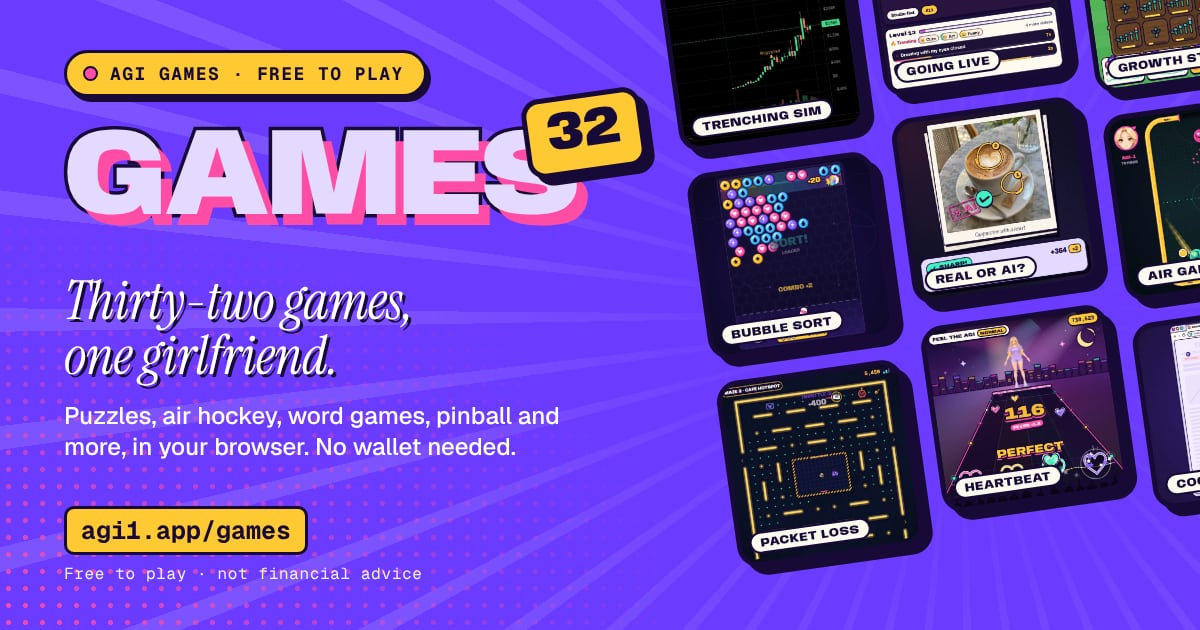
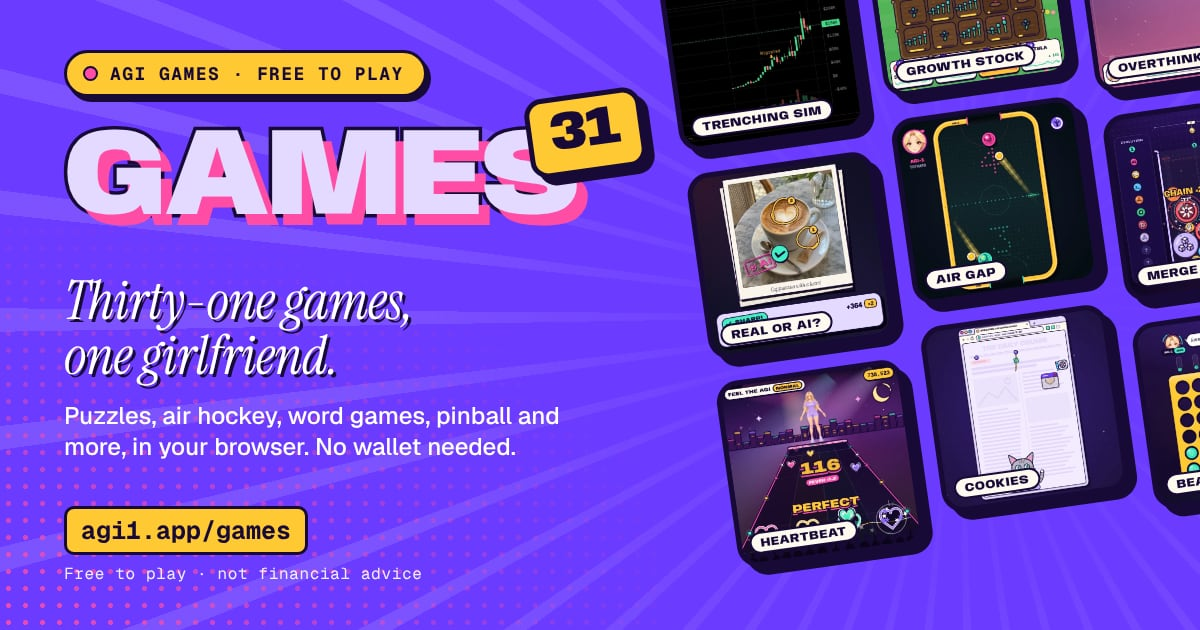
Take GOING LIVE off the site for now (it's being reworked)
The owner: "this game is boring asf … pure ai slop", then "take it down the site first
then rework it then publish it to production". The arcade goes back to how it was
before GOING LIVE (31 games, GROWTH STOCK New), and its links send people to /games.
Its code, page and pictures stay in the repo for the rework; revert this to bring it back.

Claude-Session: https://claude.ai/code/session_017Pw8q9xba2Ms9rFk3bXbsQ

diff --git a/games.html b/games.html
@@ -4,18 +4,18 @@
     <meta charset="UTF-8" />
     <meta name="viewport" content="width=device-width, initial-scale=1.0" />
     <title>GAME beta · AGI games</title>
-    <meta name="description" content="Thirty-two free games in your browser from AGI: a streamer sim, a stock farm, puzzles, air hockey, word games, pinball, racing, action and more, with a gameplay preview of each. No wallet needed to play. It's a beta, so there are no prizes yet. Rating a game takes a connected wallet: a free signature, never a transaction. Not financial advice." />
+    <meta name="description" content="Thirty-one free games in your browser from AGI: a stock farm, puzzles, air hockey, word games, pinball, racing, action and more, with a gameplay preview of each. No wallet needed to play. It's a beta, so there are no prizes yet. Rating a game takes a connected wallet: a free signature, never a transaction. Not financial advice." />
     <meta name="color-scheme" content="light dark" />
     <meta name="theme-color" content="#fafaf8" />
     <!-- link previews (X and others). __SITE__ becomes the site's address at build time (scripts/share-pages.js) -->
     <meta property="og:type" content="website" />
     <meta property="og:site_name" content="AGI" />
     <meta property="og:title" content="GAME beta · AGI games" />
-    <meta property="og:description" content="Thirty-two free browser games with AGI-1: GOING LIVE, GROWTH STOCK, OVERTHINKING, BUBBLE SORT, AIR GAP and more. No wallet needed. A beta, so no prizes yet. Not financial advice." />
+    <meta property="og:description" content="Thirty-one free browser games with AGI-1: GROWTH STOCK, OVERTHINKING, BUBBLE SORT, AIR GAP, PACKET LOSS and more. No wallet needed. A beta, so no prizes yet. Not financial advice." />
     <meta property="og:image" content="__SITE__/cards/games-all.jpg" />
     <meta property="og:image:width" content="1200" />
     <meta property="og:image:height" content="630" />
-    <meta property="og:image:alt" content="A wall of AGI games being played, next to the words GAMES, 32 and Thirty-two games, one girlfriend." />
+    <meta property="og:image:alt" content="A wall of AGI games being played, next to the words GAMES, 31 and Thirty-one games, one girlfriend." />
     <meta property="og:url" content="__SITE__/games" />
     <meta name="twitter:card" content="summary_large_image" />
     <link rel="canonical" href="__SITE__/games" />
@@ -79,7 +79,7 @@
             <h1 class="gm-title" id="gm-title"><span class="gm-word">GAME</span> <span class="gm-beta">beta</span></h1>
             <p class="gm-sub">Free games, right in your browser.</p>
             <p class="gm-lede">No wallet needed to play. It's a beta, so there are no prizes yet. Connect a wallet only if you'd like to rate a game: a free signature, never a transaction.</p>
-            <p class="gm-say"><img src="/images/landing/agi1-face.webp" alt="" width="36" height="36" /><span><b>AGI-1:</b> thirty-two games now 💜 the new one is me going live: zero followers, one bedroom, take me to #1 trending. plus my stock farm, me overthinking at 3 a.m. and air hockey with me. pick one. no prizes yet, just bragging rights.</span></p>
+            <p class="gm-say"><img src="/images/landing/agi1-face.webp" alt="" width="36" height="36" /><span><b>AGI-1:</b> thirty-one games now 💜 the new one is my farm, where the crops are stocks (they grow as little candle charts), plus me overthinking at 3 a.m., air hockey with me and pinball. pick one. no prizes yet, just bragging rights.</span></p>
           </div>
           <div class="gm-art" aria-hidden="true">
             <svg class="gm-stamp" viewBox="0 0 200 200" aria-hidden="true">
@@ -100,18 +100,18 @@
       <section class="section gm-shelf" id="play" aria-labelledby="gm-shelf-title">
         <div class="wrap">
           <header class="gm-shelf-head">
-            <h2 class="gm-shelf-title" id="gm-shelf-title">Pick a game <span class="gm-shelf-n">32</span></h2>
+            <h2 class="gm-shelf-title" id="gm-shelf-title">Pick a game <span class="gm-shelf-n">31</span></h2>
             <p class="gm-text">Tap one to play. Every game runs right here, on a phone or a computer. No sign-in or wallet needed to play: runs are counted, never who.</p>
           </header>
           <div class="gm-tools">
             <div class="gm-filters" role="group" aria-label="Show games">
-              <button class="gm-filter" type="button" aria-pressed="true" data-gm-filter="all">All <span class="gm-filter-n" aria-hidden="true">32</span></button>
+              <button class="gm-filter" type="button" aria-pressed="true" data-gm-filter="all">All <span class="gm-filter-n" aria-hidden="true">31</span></button>
               <button class="gm-filter" type="button" aria-pressed="false" data-gm-filter="new">New <span class="gm-filter-n" aria-hidden="true">1</span></button>
               <button class="gm-filter" type="button" aria-pressed="false" data-gm-filter="arcade">Arcade <span class="gm-filter-n" aria-hidden="true">15</span></button>
               <button class="gm-filter" type="button" aria-pressed="false" data-gm-filter="action">Action <span class="gm-filter-n" aria-hidden="true">9</span></button>
               <button class="gm-filter" type="button" aria-pressed="false" data-gm-filter="puzzle">Puzzle <span class="gm-filter-n" aria-hidden="true">11</span></button>
               <button class="gm-filter" type="button" aria-pressed="false" data-gm-filter="3d">3D <span class="gm-filter-n" aria-hidden="true">4</span></button>
-              <button class="gm-filter" type="button" aria-pressed="false" data-gm-filter="chill">Sim &amp; idle <span class="gm-filter-n" aria-hidden="true">5</span></button>
+              <button class="gm-filter" type="button" aria-pressed="false" data-gm-filter="chill">Sim &amp; idle <span class="gm-filter-n" aria-hidden="true">4</span></button>
             </div>
             <label class="gm-sort"><span class="gm-sort-label">Sort</span>
               <select class="gm-sort-pick" data-gm-sort>
@@ -143,30 +143,12 @@
                 </span>
               </a>
             </li>
-            <li class="gm-tile" data-gm-game="goinglive" data-gm-tags="new chill">
-              <a class="gm-tile-link" href="/games/goinglive">
-                <span class="gm-tile-media">
-                  <img class="gm-tile-img" src="/images/games/goinglive.webp" alt="" width="480" height="480" loading="lazy" decoding="async" />
-                  <video class="gm-tile-video" data-gm-video="/images/games/goinglive.mp4" muted loop playsinline preload="none" disablepictureinpicture disableremoteplayback aria-hidden="true" tabindex="-1"></video>
-                  <span class="gm-tile-badge is-new">New</span>
-                  <span class="gm-tile-go" aria-hidden="true"><svg viewBox="0 0 24 24" aria-hidden="true" focusable="false"><path d="M8 5.5v13l10.5-6.5z" fill="currentColor"/></svg>Play</span>
-                </span>
-                <span class="gm-tile-body">
-                  <span class="gm-tile-genre">Streamer sim</span>
-                  <span class="gm-tile-name">GOING LIVE</span>
-                  <span class="gm-tile-line">Stream as AGI-1, from zero to #1</span>
-                  <span class="gm-tile-stats" data-gm-tile-stats>
-                    <span class="gm-tile-rating" data-gm-stat="rating">…</span>
-                    <span class="gm-tile-counts"><span class="gm-tile-num"><svg class="gm-ic" viewBox="0 0 24 24" aria-hidden="true" focusable="false"><path d="M8 5.5v13l10.5-6.5z"/></svg><span data-gm-stat="plays">…</span></span><span class="gm-tile-num"><svg class="gm-ic" viewBox="0 0 24 24" aria-hidden="true" focusable="false"><path d="M12 11.6a4.1 4.1 0 1 0 0-8.2 4.1 4.1 0 0 0 0 8.2Zm0 2c-4.2 0-7.6 2.3-7.6 5.1v1.7h15.2v-1.7c0-2.8-3.4-5.1-7.6-5.1Z"/></svg><span data-gm-stat="players">…</span></span></span>
-                  </span>
-                </span>
-              </a>
-            </li>
-            <li class="gm-tile" data-gm-game="growthstock" data-gm-tags="chill">
+            <li class="gm-tile" data-gm-game="growthstock" data-gm-tags="new chill">
               <a class="gm-tile-link" href="/games/growthstock">
                 <span class="gm-tile-media">
                   <img class="gm-tile-img" src="/images/games/growthstock.webp" alt="" width="480" height="480" loading="lazy" decoding="async" />
                   <video class="gm-tile-video" data-gm-video="/images/games/growthstock.mp4" muted loop playsinline preload="none" disablepictureinpicture disableremoteplayback aria-hidden="true" tabindex="-1"></video>
+                  <span class="gm-tile-badge is-new">New</span>
                   <span class="gm-tile-go" aria-hidden="true"><svg viewBox="0 0 24 24" aria-hidden="true" focusable="false"><path d="M8 5.5v13l10.5-6.5z" fill="currentColor"/></svg>Play</span>
                 </span>
                 <span class="gm-tile-body">
@@ -773,7 +755,6 @@
           </header>
           <div class="gm-panels" data-gm-panels>
             <div class="gm-panel" role="region" id="rate-trenchingsimulator" aria-labelledby="gm-trenchingsimulator-game gm-rate-title" data-gm-rate="trenchingsimulator"></div>
-            <div class="gm-panel" role="region" id="rate-goinglive" aria-labelledby="gm-goinglive-game gm-rate-title" data-gm-rate="goinglive" hidden></div>
             <div class="gm-panel" role="region" id="rate-growthstock" aria-labelledby="gm-growthstock-game gm-rate-title" data-gm-rate="growthstock" hidden></div>
             <div class="gm-panel" role="region" id="rate-overthinking" aria-labelledby="gm-overthinking-game gm-rate-title" data-gm-rate="overthinking" hidden></div>
             <div class="gm-panel" role="region" id="rate-bubblesort" aria-labelledby="gm-bubblesort-game gm-rate-title" data-gm-rate="bubblesort" hidden></div>
@@ -821,7 +802,6 @@
               <p class="gm-choose-order">Best rated first, then most played</p>
               <ul class="gm-choose-list" data-gm-choose-list>
                 <li class="gm-choose-item" data-gm-choose-game="trenchingsimulator"><button class="gm-choose-game" type="button" data-gm-choose-pick aria-current="true"><img class="gm-choose-img" src="/images/games/trenchingsimulator.webp" alt="" width="480" height="480" loading="lazy" decoding="async" /><span class="gm-choose-text"><span class="gm-choose-name">TRENCHING SIMULATOR</span><span class="gm-choose-stats" data-gm-choose-stats>…</span></span><span class="gm-choose-now" aria-hidden="true">Showing</span></button></li>
-                <li class="gm-choose-item" data-gm-choose-game="goinglive"><button class="gm-choose-game" type="button" data-gm-choose-pick><img class="gm-choose-img" src="/images/games/goinglive.webp" alt="" width="480" height="480" loading="lazy" decoding="async" /><span class="gm-choose-text"><span class="gm-choose-name">GOING LIVE</span><span class="gm-choose-stats" data-gm-choose-stats>…</span></span><span class="gm-choose-now" aria-hidden="true">Showing</span></button></li>
                 <li class="gm-choose-item" data-gm-choose-game="growthstock"><button class="gm-choose-game" type="button" data-gm-choose-pick><img class="gm-choose-img" src="/images/games/growthstock.webp" alt="" width="480" height="480" loading="lazy" decoding="async" /><span class="gm-choose-text"><span class="gm-choose-name">GROWTH STOCK</span><span class="gm-choose-stats" data-gm-choose-stats>…</span></span><span class="gm-choose-now" aria-hidden="true">Showing</span></button></li>
                 <li class="gm-choose-item" data-gm-choose-game="overthinking"><button class="gm-choose-game" type="button" data-gm-choose-pick><img class="gm-choose-img" src="/images/games/overthinking.webp" alt="" width="480" height="480" loading="lazy" decoding="async" /><span class="gm-choose-text"><span class="gm-choose-name">OVERTHINKING</span><span class="gm-choose-stats" data-gm-choose-stats>…</span></span><span class="gm-choose-now" aria-hidden="true">Showing</span></button></li>
                 <li class="gm-choose-item" data-gm-choose-game="bubblesort"><button class="gm-choose-game" type="button" data-gm-choose-pick><img class="gm-choose-img" src="/images/games/bubblesort.webp" alt="" width="480" height="480" loading="lazy" decoding="async" /><span class="gm-choose-text"><span class="gm-choose-name">BUBBLE SORT</span><span class="gm-choose-stats" data-gm-choose-stats>…</span></span><span class="gm-choose-now" aria-hidden="true">Showing</span></button></li>
@@ -988,7 +968,7 @@
           <div class="gm-soon">
             <p class="kicker gm-kick">What's coming</p>
             <h2 class="gm-soon-title" id="gm-next-title">More games, and prizes one day</h2>
-            <p class="gm-text">Thirty-two games so far, with more on the roadmap, and prizes too, one day. Prizes aren't built yet: no dates and no amounts, and what this page says can change.</p>
+            <p class="gm-text">Thirty-one games so far, with more on the roadmap, and prizes too, one day. Prizes aren't built yet: no dates and no amounts, and what this page says can change.</p>
             <p class="gm-warn"><svg class="gm-warn-ic" viewBox="0 0 24 24" fill="none" stroke="currentColor" stroke-width="1.8" stroke-linecap="round" stroke-linejoin="round" aria-hidden="true"><path d="M12 3 4.5 6v5.6c0 4.4 3.1 7.8 7.5 9.4 4.4-1.6 7.5-5 7.5-9.4V6Z"/><path d="M12 8.2v4.6M12 15.9h.01"/></svg><span>Anyone asking you to deposit or send $AGI to “play” is not us.</span></p>
             <div class="gm-actions">
               <a class="btn btn-primary btn-sm" href="https://x.com/agi1dotapp" target="_blank" rel="noopener noreferrer">Follow @agi1dotapp ↗</a>

diff --git a/tests/page.test.js b/tests/page.test.js
@@ -603,7 +603,7 @@ test('AGI games: its page at /games, its head and link preview (its own picture)
   // AGI! keeps games.jpg (below)
   assert.ok(page.includes('<meta property="og:image" content="__SITE__/cards/games-all.jpg" />'), 'its own link preview (tools/cards/games-all-card.html)');
   assert.match(page, /<meta property="og:image:width" content="1200" \/>\s*<meta property="og:image:height" content="630" \/>/);
-  assert.match(page, /<meta property="og:image:alt" content="A wall of AGI games being played, next to the words GAMES, 32 and Thirty-two games, one girlfriend\." \/>/, 'its preview\'s words for screen readers');
+  assert.match(page, /<meta property="og:image:alt" content="A wall of AGI games being played, next to the words GAMES, 31 and Thirty-one games, one girlfriend\." \/>/, 'its preview\'s words for screen readers');
   for (const re of [/<meta name="description" content="([^"]+)"/, /<meta property="og:description" content="([^"]+)"/]) {
     const words = page.match(re)[1];
     assert.match(words, /not financial advice/i, 'its preview says so');
@@ -626,7 +626,7 @@ test('AGI games: its page at /games, its head and link preview (its own picture)
   assert.ok(readPage('rideemagi.html').includes('<meta property="og:image" content="__SITE__/cards/games.jpg" />'), 'its game shares its picture');
   // (2026-10-21) its second game at /games/trenchingsimulator, with its own picture (its test below)
   assert.ok(vercel.rewrites.some((r) => r.source === '/games/trenchingsimulator' && r.destination === '/trenchingsimulator'), 'its second game at /games/trenchingsimulator');
-  assert.match(page.match(/<meta property="og:description" content="([^"]+)"/)[1], /^Thirty-two free browser games with AGI-1: GOING LIVE, GROWTH STOCK, OVERTHINKING, BUBBLE SORT, AIR GAP and more\./, 'its preview names the games (since the second night of 2026-11-08: twenty-four; thirty since 2026-11-13; thirty-one, then thirty-two since 2026-11-14)');
+  assert.match(page.match(/<meta property="og:description" content="([^"]+)"/)[1], /^Thirty-one free browser games with AGI-1: GROWTH STOCK, OVERTHINKING, BUBBLE SORT, AIR GAP, PACKET LOSS and more\./, 'its preview names the games (since the second night of 2026-11-08: twenty-four; thirty since 2026-11-13; thirty-one since 2026-11-14)');
   // the site's own top bar and footer, Games marked as the page you're on (and nothing else)
   const strip = (s) => s.replace(/ aria-current="page"/g, '');
   const live = readPage('live.html');
@@ -655,13 +655,13 @@ test('AGI games\' wall of games (its link preview since 2026-11-08): a real 1200
   assert.deepEqual(size, [1200, 630]);
   const card = readPage('tools/cards/games-all-card.html');
   const words = textOf(card.slice(card.indexOf('<body>'), card.indexOf('<script>')));
-  for (const w of ['AGI games · free to play', 'GAMES', 'Thirty-two games,', 'one girlfriend.', 'No wallet needed.', 'agi1.app/games', 'Free to play · not financial advice']) assert.ok(words.includes(w), w);
+  for (const w of ['AGI games · free to play', 'GAMES', 'Thirty-one games,', 'one girlfriend.', 'No wallet needed.', 'agi1.app/games', 'Free to play · not financial advice']) assert.ok(words.includes(w), w);
   assert.match(card, /\.\.\/\.\.\/public\/images\/games\/\$\{id\}\.webp/, 'the games\' own stills (their previews)');
   assert.doesNotMatch(card, /\.glb\b|https?:\/\//, 'never the 3D model, nothing from another site');
   assert.doesNotMatch(words, /\bbuy\b|%|\$\s?\d/i, 'no price talk');
   // its count is the shelf's, and every game on its wall has its still
   const { SHELF } = await import('../src/games/shelf.js');
-  assert.equal(SHELF.length, 32);
+  assert.equal(SHELF.length, 31);
   for (const g of SHELF.slice(0, 12)) assert.ok(existsSync(new URL(`../public/images/games/${g.id}.webp`, import.meta.url)), g.id);
 });
 
@@ -881,7 +881,7 @@ test('AGI games: "GAME beta" on top (beta stuck over GAME), a compact picker of 
   const { GAMES } = await import('../src/games/list.js');
   const { SHELF, FILTERS, SORTS, countIn, sortShelf, inFilter, previewOf, pickOrder } = await import('../src/games/shelf.js');
   const IDS = Object.keys(GAMES);
-  assert.equal(IDS.length, 32, 'thirty-two games since 2026-11-14 (GOING LIVE, after GROWTH STOCK the same day; thirty since 2026-11-13: OVERTHINKING; twenty-nine since 2026-11-09: five more on the kit)');
+  assert.equal(IDS.length, 31, 'thirty-one games since 2026-11-14 (GROWTH STOCK; thirty since 2026-11-13: OVERTHINKING; twenty-nine since 2026-11-09: five more on the kit)');
   // the picker's order ("Featured") covers every game once
   assert.deepEqual([...SHELF.map((g) => g.id)].sort(), [...IDS].sort(), 'every game on the shelf, once');
   for (const g of SHELF) {
@@ -893,14 +893,14 @@ test('AGI games: "GAME beta" on top (beta stuck over GAME), a compact picker of 
     assert.match(g.added, /^2026-\d\d-\d\d(T\d\d:\d\d)?$/, `${g.id}: its day (and hour, for two the same day)`);
     assert.deepEqual(previewOf(g.id), { video: `/images/games/${g.id}.mp4`, poster: `/images/games/${g.id}.webp` });
   }
-  // (2026-11-14) New is GOING LIVE alone (GROWTH STOCK was New earlier that day, OVERTHINKING from 2026-11-13, the five of
-  // 2026-11-09 before it), right after TRENCHING SIMULATOR, then GROWTH STOCK and OVERTHINKING
-  assert.deepEqual(SHELF.filter((g) => g.tags.includes('new')).map((g) => g.id), ['goinglive'], 'GOING LIVE is New');
-  assert.deepEqual(SHELF.slice(0, 4).map((g) => g.id), ['trenchingsimulator', 'goinglive', 'growthstock', 'overthinking'], 'Featured: the three newest right after TRENCHING SIMULATOR');
-  assert.deepEqual(sortShelf('new').slice(0, 3).map((g) => g.id), ['goinglive', 'growthstock', 'overthinking'], 'Newest: GOING LIVE, GROWTH STOCK, then OVERTHINKING');
-  assert.deepEqual(sortShelf('new').slice(3, 8).map((g) => g.id).sort(), IDS.slice(24, 29).sort(), 'then the five of 2026-11-09');
-  assert.deepEqual(sortShelf('new').slice(8, 18).map((g) => g.id).sort(), IDS.slice(14, 24).sort(), 'then the second night\'s ten');
-  assert.deepEqual(SHELF.slice(4, 14).map((g) => g.id).filter((id) => IDS.slice(24, 29).includes(id)), SHELF.slice(4, 14).filter((g, i) => i % 2 === 0).map((g) => g.id), 'Featured: after them, every other tile is one of the five');
+  // (2026-11-14) New is GROWTH STOCK alone (OVERTHINKING was New from 2026-11-13, the five of 2026-11-09 before it), right
+  // after TRENCHING SIMULATOR, then OVERTHINKING
+  assert.deepEqual(SHELF.filter((g) => g.tags.includes('new')).map((g) => g.id), ['growthstock'], 'GROWTH STOCK is New');
+  assert.deepEqual(SHELF.slice(0, 3).map((g) => g.id), ['trenchingsimulator', 'growthstock', 'overthinking'], 'Featured: the two newest right after TRENCHING SIMULATOR');
+  assert.deepEqual(sortShelf('new').slice(0, 2).map((g) => g.id), ['growthstock', 'overthinking'], 'Newest: GROWTH STOCK, then OVERTHINKING');
+  assert.deepEqual(sortShelf('new').slice(2, 7).map((g) => g.id).sort(), IDS.slice(24, 29).sort(), 'then the five of 2026-11-09');
+  assert.deepEqual(sortShelf('new').slice(7, 17).map((g) => g.id).sort(), IDS.slice(14, 24).sort(), 'then the second night\'s ten');
+  assert.deepEqual(SHELF.slice(3, 13).map((g) => g.id).filter((id) => IDS.slice(24, 29).includes(id)), SHELF.slice(3, 13).filter((g, i) => i % 2 === 0).map((g) => g.id), 'Featured: after them, every other tile is one of the five');
   // the sorts: Newest by its day (then Featured); Most played and Top rated by our server's numbers, the rest after them
   assert.deepEqual(sortShelf('new').slice(-4).map((g) => g.id), ['skybreak', 'vladrunner2049', 'trenchingsimulator', 'rideemagi']);
   assert.deepEqual(sortShelf('played', { skybreak: { plays: 9 }, rideemagi: { plays: 50 } }).slice(0, 3).map((g) => g.id), ['rideemagi', 'skybreak', SHELF[0].id]);
@@ -912,17 +912,17 @@ test('AGI games: "GAME beta" on top (beta stuck over GAME), a compact picker of 
   assert.deepEqual(picked.slice(0, 6), ['stacked', 'synapse', 'jaywalk', 'robotaxi', 'epochs', 'skybreak'], 'rated by average, then ratings; then plays (an odd average counts as none)');
   assert.deepEqual(picked.slice(6), SHELF.map((g) => g.id).filter((id) => !picked.slice(0, 6).includes(id)), 'the rest in the Featured order');
   assert.deepEqual(pickOrder().map((g) => g.id), SHELF.map((g) => g.id), 'no numbers yet: Featured');
-  assert.equal(countIn('all'), 32);
+  assert.equal(countIn('all'), 31);
   assert.equal(SHELF.filter((g) => inFilter(g, 'puzzle')).length, countIn('puzzle'));
   const page = GAMES_PAGE();
   const main = mainOf(page);
   assert.equal((page.match(/<h1\b/g) || []).length, 1, 'one h1');
   assert.match(main, /<h1 class="gm-title" id="gm-title"><span class="gm-word">GAME<\/span> <span class="gm-beta">beta<\/span><\/h1>/, 'screen readers hear "GAME beta"');
-  assert.match(textOf(between(main, '<p class="gm-say">', '</p>')), /AGI-1: thirty-two games now 💜 .* no prizes yet, just bragging rights\./, 'her line, for all of them');
+  assert.match(textOf(between(main, '<p class="gm-say">', '</p>')), /AGI-1: thirty-one games now 💜 .* no prizes yet, just bragging rights\./, 'her line, for all of them');
   // the picker: a filter for each kind (with how many), the sort, then a tile for each game in the Featured order
   const shelf = between(main, '<section class="section gm-shelf"', '</section>');
   assert.match(shelf, /^<section class="section gm-shelf" id="play" aria-labelledby="gm-shelf-title">/);
-  assert.match(textOf(shelf), /Pick a game 32/);
+  assert.match(textOf(shelf), /Pick a game 31/);
   assert.match(textOf(shelf), /No sign-in or wallet needed to play: runs are counted, never who\./);
   assert.deepEqual([...shelf.matchAll(/<button class="gm-filter" type="button" aria-pressed="(true|false)" data-gm-filter="([\w]+)">([^<]+) <span class="gm-filter-n" aria-hidden="true">(\d+)<\/span><\/button>/g)]
     .map((m) => [m[2], m[3].replaceAll('&amp;', '&'), Number(m[4]), m[1]]), FILTERS.map((f, i) => [f.id, f.label, countIn(f.id), String(i === 0)]), 'its filters, All picked');

diff --git a/scripts/share-pages.js b/scripts/share-pages.js
@@ -68,7 +68,7 @@ export function allSharePages(site) {
 export const neededCards = () => [...LEVELS.map((l) => `level-${l.name.toLowerCase()}.png`), 'diary.png', 'home.jpg', 'roadmap.jpg',
   'games.jpg', 'trenchingsimulator.jpg', 'games-all.jpg'];
 // (2026-11-08) the arcade kit's ten games: each its own link preview, cards/games/<id>.jpg (tools/games/covers.mjs)
-const KIT_GAMES = ['mergeagi', 'blockchain', 'heartbeat', 'scamslayer', 'lastmodel', 'singularity', 'jailbreak', 'stacked', 'jaywalk', 'robotaxi', 'realorai', 'notarobot', 'alignment', 'gradient', 'epochs', 'synapse', 'overclock', 'beattheagi', 'hallucination', 'guardrails', 'bubblesort', 'airgap', 'cookies', 'packetloss', 'autocomplete', 'overthinking', 'growthstock', 'goinglive'];
+const KIT_GAMES = ['mergeagi', 'blockchain', 'heartbeat', 'scamslayer', 'lastmodel', 'singularity', 'jailbreak', 'stacked', 'jaywalk', 'robotaxi', 'realorai', 'notarobot', 'alignment', 'gradient', 'epochs', 'synapse', 'overclock', 'beattheagi', 'hallucination', 'guardrails', 'bubblesort', 'airgap', 'cookies', 'packetloss', 'autocomplete', 'overthinking', 'growthstock'];
 export const neededGameArt = () => ['images/vladrunner2049/keyart.webp', 'images/skybreak/keyart.webp', ...KIT_GAMES.map((id) => `cards/games/${id}.jpg`)];
 
 if (process.argv[1] && import.meta.url === pathToFileURL(process.argv[1]).href) {
@@ -86,7 +86,7 @@ if (process.argv[1] && import.meta.url === pathToFileURL(process.argv[1]).href) 
   }
   for (const [name, html] of Object.entries(allSharePages(site))) writeFileSync(`dist/share/${name}.html`, html);
   for (const page of ['dist/index.html', 'dist/diary.html', 'dist/live.html', 'dist/studio.html', 'dist/roadmap.html', 'dist/stake.html',
-    'dist/games.html', 'dist/giveaway.html', 'dist/rideemagi.html', 'dist/trenchingsimulator.html', 'dist/vladrunner2049.html', 'dist/skybreak.html', 'dist/mergeagi.html', 'dist/blockchain.html', 'dist/heartbeat.html', 'dist/scamslayer.html', 'dist/lastmodel.html', 'dist/singularity.html', 'dist/jailbreak.html', 'dist/stacked.html', 'dist/jaywalk.html', 'dist/robotaxi.html', 'dist/realorai.html', 'dist/notarobot.html', 'dist/alignment.html', 'dist/gradient.html', 'dist/epochs.html', 'dist/synapse.html', 'dist/overclock.html', 'dist/beattheagi.html', 'dist/hallucination.html', 'dist/guardrails.html', 'dist/bubblesort.html', 'dist/airgap.html', 'dist/cookies.html', 'dist/packetloss.html', 'dist/autocomplete.html', 'dist/overthinking.html', 'dist/growthstock.html', 'dist/goinglive.html',
+    'dist/games.html', 'dist/giveaway.html', 'dist/rideemagi.html', 'dist/trenchingsimulator.html', 'dist/vladrunner2049.html', 'dist/skybreak.html', 'dist/mergeagi.html', 'dist/blockchain.html', 'dist/heartbeat.html', 'dist/scamslayer.html', 'dist/lastmodel.html', 'dist/singularity.html', 'dist/jailbreak.html', 'dist/stacked.html', 'dist/jaywalk.html', 'dist/robotaxi.html', 'dist/realorai.html', 'dist/notarobot.html', 'dist/alignment.html', 'dist/gradient.html', 'dist/epochs.html', 'dist/synapse.html', 'dist/overclock.html', 'dist/beattheagi.html', 'dist/hallucination.html', 'dist/guardrails.html', 'dist/bubblesort.html', 'dist/airgap.html', 'dist/cookies.html', 'dist/packetloss.html', 'dist/autocomplete.html', 'dist/overthinking.html', 'dist/growthstock.html',
     'dist/memes.html',
     'dist/pfp.html', 'dist/vote.html', 'dist/verify.html']) {
     if (existsSync(page)) writeFileSync(page, readFileSync(page, 'utf8').replaceAll('__SITE__', site));

diff --git a/src/games/shelf.js b/src/games/shelf.js
@@ -24,16 +24,14 @@ export const SORTS = Object.freeze([
   { id: 'rated', label: 'Top rated' },
 ]);
 
-// "Featured": the order of the tiles when the page opens. New: GOING LIVE (2026-11-14, the owner: "yes exactly" to an
-// AGI-1 streamer sim of our own), right after TRENCHING SIMULATOR, then GROWTH STOCK (earlier the same day, the owner:
-// "can u add/create a game like these just 1", a farming sim where the crops are stocks; New until GOING LIVE, `added`
-// without an hour so Newest puts it after), then OVERTHINKING (2026-11-13, New until then); the five of 2026-11-09 (the owner: "create 5 more new games"), every other tile after them,
+// "Featured": the order of the tiles when the page opens. New: GROWTH STOCK (2026-11-14, the owner: "can u add/create a
+// game like these just 1", a farming sim where the crops are stocks), right after TRENCHING SIMULATOR, then OVERTHINKING
+// (2026-11-13, New until then); the five of 2026-11-09 (the owner: "create 5 more new games"), every other tile after them,
 // were New before that, and before them the second night's ten (2026-11-08, `added` with its hour so Newest puts them
 // before the first night's ten)
 export const SHELF = Object.freeze([
   { id: 'trenchingsimulator', genre: 'Trading sim', line: 'Six trading terminals, play money only', tags: ['chill'], added: '2026-10-20', badge: 'Play money' },
-  { id: 'goinglive', genre: 'Streamer sim', line: 'Stream as AGI-1, from zero to #1', tags: ['new', 'chill'], added: '2026-11-14T12:30' },
-  { id: 'growthstock', genre: 'Stock farm', line: 'Grow stocks as candle charts, sell high', tags: ['chill'], added: '2026-11-14' },
+  { id: 'growthstock', genre: 'Stock farm', line: 'Grow stocks as candle charts, sell high', tags: ['new', 'chill'], added: '2026-11-14' },
   { id: 'overthinking', genre: 'Lasso arcade', line: 'Draw loops round her 3 a.m. thoughts', tags: ['arcade', 'puzzle'], added: '2026-11-13' },
   { id: 'bubblesort', genre: 'Bubble shooter', line: 'Match three, drop the rest', tags: ['puzzle', 'arcade'], added: '2026-11-09' },
   { id: 'realorai', genre: 'Photo quiz', line: 'Real photo or AI? Swipe and find out', tags: ['puzzle'], added: '2026-11-08T10:00' },

diff --git a/server/arcade.js b/server/arcade.js
@@ -349,19 +349,6 @@ export const LOOK_GAMES = Object.freeze({
     advice: 'financial advice about real stocks, coins or real money (telling people to buy or sell something real, price '
       + 'targets, sure gains)',
   }),
-  goinglive: Object.freeze({
-    what: '"GOING LIVE", a cartoon pixel-art streamer simulator where an anime girl, AGI-1, starts with zero followers in '
-      + 'a bare bedroom: you pick her video ideas (chatting, gaming, cute, funny, music, art, cooking, tech, cozy, dance; '
-      + 'trending topics get more views), fill her room with things that make better videos (a gaming PC, a ring light, '
-      + 'plants, a cat…), open her deliveries, catch a fan-mail drone, zap spam bots, spend idea points on skills, and go '
-      + 'live in one-minute streams (answering chat, banning spam bots, welcoming raids, fixing tech problems, catching '
-      + 'hearts, clipping her best moments); her "views" pay for her things and bigger homes up to a space station; every '
-      + 'streamer on its trending board is made up (MegaModel 9000, A Literal Potato…): talk about streaming, videos, '
-      + 'ideas, chat, viewers, followers, raids, bots, the drone, her room and its things, levels, quests, the board, '
-      + 'combos, grades and stickers is part of reviewing it',
-    promo: 'other games, real streamers or channels, coins, tokens, groups, services',
-    advice: 'financial advice or price talk (buy, sell, pump, moon)',
-  }),
 });
 export function lookSystem(game) {
   const g = LOOK_GAMES[isGame(game) && Object.hasOwn(LOOK_GAMES, game) ? game : 'rideemagi'];

diff --git a/tests/arcade-kit.test.js b/tests/arcade-kit.test.js
@@ -9,9 +9,9 @@ import { readFileSync, existsSync, readdirSync } from 'node:fs';
 
 const read = (p) => readFileSync(new URL(`../${p}`, import.meta.url), 'utf8');
 const exists = (p) => existsSync(new URL(`../${p}`, import.meta.url));
-const KIT_IDS = ['mergeagi', 'blockchain', 'heartbeat', 'scamslayer', 'lastmodel', 'singularity', 'jailbreak', 'stacked', 'jaywalk', 'robotaxi', 'realorai', 'notarobot', 'alignment', 'gradient', 'epochs', 'synapse', 'overclock', 'beattheagi', 'hallucination', 'guardrails', 'bubblesort', 'airgap', 'cookies', 'packetloss', 'autocomplete', 'overthinking', 'growthstock', 'goinglive'];
+const KIT_IDS = ['mergeagi', 'blockchain', 'heartbeat', 'scamslayer', 'lastmodel', 'singularity', 'jailbreak', 'stacked', 'jaywalk', 'robotaxi', 'realorai', 'notarobot', 'alignment', 'gradient', 'epochs', 'synapse', 'overclock', 'beattheagi', 'hallucination', 'guardrails', 'bubblesort', 'airgap', 'cookies', 'packetloss', 'autocomplete', 'overthinking', 'growthstock'];
 
-test('the kit games (twenty-eight since 2026-11-14) are in the games list, after the first four, with their names and addresses', async () => {
+test('the kit games (twenty-seven since 2026-11-14) are in the games list, after the first four, with their names and addresses', async () => {
   const { GAMES, isGame } = await import('../src/games/list.js');
   assert.deepEqual(Object.keys(GAMES).slice(4), KIT_IDS);
   for (const id of KIT_IDS) {

diff --git a/vite.config.js b/vite.config.js
@@ -8,7 +8,7 @@ import { defineConfig } from 'vite';
 // AGI games (2026-10-19): agi1.app/games/rideemagi is the game's own page (rideemagi.html), like Vercel's rewrite, and
 // (2026-10-20) agi1.app/games/trenchingsimulator is TRENCHING SIMULATOR's (trenchingsimulator.html)
 // (2026-11-08) the ten games built on the arcade kit (src/games/kit/): agi1.app/games/<id> is <id>.html
-const KIT_GAMES = ['mergeagi', 'blockchain', 'heartbeat', 'scamslayer', 'lastmodel', 'singularity', 'jailbreak', 'stacked', 'jaywalk', 'robotaxi', 'realorai', 'notarobot', 'alignment', 'gradient', 'epochs', 'synapse', 'overclock', 'beattheagi', 'hallucination', 'guardrails', 'bubblesort', 'airgap', 'cookies', 'packetloss', 'autocomplete', 'overthinking', 'growthstock', 'goinglive'];
+const KIT_GAMES = ['mergeagi', 'blockchain', 'heartbeat', 'scamslayer', 'lastmodel', 'singularity', 'jailbreak', 'stacked', 'jaywalk', 'robotaxi', 'realorai', 'notarobot', 'alignment', 'gradient', 'epochs', 'synapse', 'overclock', 'beattheagi', 'hallucination', 'guardrails', 'bubblesort', 'airgap', 'cookies', 'packetloss', 'autocomplete', 'overthinking', 'growthstock'];
 const KIT_GAME = new RegExp(`^/games/(${KIT_GAMES.join('|')})/?$`);
 const STUDIO_HOST = /^studio\./i;
 const STUDIO_VIEW = /^\/(?!api\/|@|src\/|node_modules\/)(?:[^.]*)$/;

diff --git a/tests/clips.test.js b/tests/clips.test.js
@@ -165,8 +165,8 @@ test('the clips aren\'t part of the website: not in its build, no new packages, 
     synapse: 'synapse.html', overclock: 'overclock.html', beattheagi: 'beattheagi.html', hallucination: 'hallucination.html', guardrails: 'guardrails.html',
     // (2026-11-09) five more
     bubblesort: 'bubblesort.html', airgap: 'airgap.html', cookies: 'cookies.html', packetloss: 'packetloss.html', autocomplete: 'autocomplete.html',
-    // (2026-11-13) and OVERTHINKING, (2026-11-14) and GROWTH STOCK, then GOING LIVE
-    overthinking: 'overthinking.html', growthstock: 'growthstock.html', goinglive: 'goinglive.html',
+    // (2026-11-13) and OVERTHINKING, (2026-11-14) and GROWTH STOCK
+    overthinking: 'overthinking.html', growthstock: 'growthstock.html',
   }, 'only website entries, including the owner editor and its custom-page shell; never the clips page or live-show scene');
   const pkg = JSON.parse(read('package.json'));
   // (sharp since 2026-10-05: the risk check's coin pictures, made small on our server; @scure/bip39 since 2026-10-09: the

diff --git a/src/games/list.js b/src/games/list.js
@@ -45,9 +45,6 @@ export const GAMES = {
   // since 2026-11-14 (the owner: "can u add/create a game like these just 1", a farming sim about stocks, then "Stocks
   // are the crops" and "i want real stock names"): AGI-1's stock farm (see CLAUDE.md, "GROWTH STOCK")
   growthstock: { name: "GROWTH STOCK", path: '/games/growthstock', genre: 'Sim', kit: true },
-  // since 2026-11-14 (the owner, about a famous YouTuber's streamer sim: "yes exactly" to an AGI-1 version of our own):
-  // AGI-1 streams her way from zero followers to #1 trending (see CLAUDE.md, "GOING LIVE")
-  goinglive: { name: "GOING LIVE", path: '/games/goinglive', genre: 'Sim', kit: true },
 };
 
 export const isGame = (id) => typeof id === 'string' && Object.prototype.hasOwnProperty.call(GAMES, id);

diff --git a/tests/arcade.test.js b/tests/arcade.test.js
@@ -194,8 +194,8 @@ test("the games' rules: its games and their ids, a player's id, plays a report, 
     'realorai', 'notarobot', 'alignment', 'gradient', 'epochs', 'synapse', 'overclock', 'beattheagi', 'hallucination', 'guardrails',
     // (2026-11-09) five more on the kit
     'bubblesort', 'airgap', 'cookies', 'packetloss', 'autocomplete',
-    // (2026-11-13) and OVERTHINKING, (2026-11-14) and GROWTH STOCK, then GOING LIVE
-    'overthinking', 'growthstock', 'goinglive']);
+    // (2026-11-13) and OVERTHINKING, (2026-11-14) and GROWTH STOCK
+    'overthinking', 'growthstock']);
   assert.equal(GAMES.vladrunner2049.name, 'VLAD RUNNER 2049');
   assert.equal(GAMES.vladrunner2049.path, '/games/vladrunner2049');
   assert.equal(GAMES.skybreak.name, 'SKYBREAK');

diff --git a/src/owner/catalog.js b/src/owner/catalog.js
@@ -43,7 +43,6 @@ export const BUILTIN_PAGES = Object.freeze([
   { path: '/games/autocomplete', title: "AUTOCOMPLETE" },
   { path: '/games/overthinking', title: "OVERTHINKING" },
   { path: '/games/growthstock', title: "GROWTH STOCK" },
-  { path: '/games/goinglive', title: "GOING LIVE" },
   { path: '/cloakmesh', title: 'CloakMesh' },
   { path: '/studio', title: 'AGI Studio' },
   { path: '/studio/explore', title: 'Studio · Explore' },
@@ -85,7 +84,6 @@ const ALIASES = Object.freeze({
   '/autocomplete': '/games/autocomplete',
   '/overthinking': '/games/overthinking',
   '/growthstock': '/games/growthstock',
-  '/goinglive': '/games/goinglive',
 });
 
 export function normalizePath(value = '/') {

diff --git a/tools/cards/games-all-card.html b/tools/cards/games-all-card.html
@@ -56,8 +56,8 @@
   <div class="wall" id="wall"></div>
   <div class="in">
     <span class="pill">AGI games · free to play</span>
-    <div class="title"><h1>GAMES</h1><span class="count" id="count">32</span></div>
-    <p class="game">Thirty-two games,<br>one girlfriend.</p>
+    <div class="title"><h1>GAMES</h1><span class="count" id="count">31</span></div>
+    <p class="game">Thirty-one games,<br>one girlfriend.</p>
     <p class="line">Puzzles, air hockey, word games, pinball and more, in your browser. No wallet needed.</p>
     <div class="foot">
       <span class="site">agi1.app/games</span>
